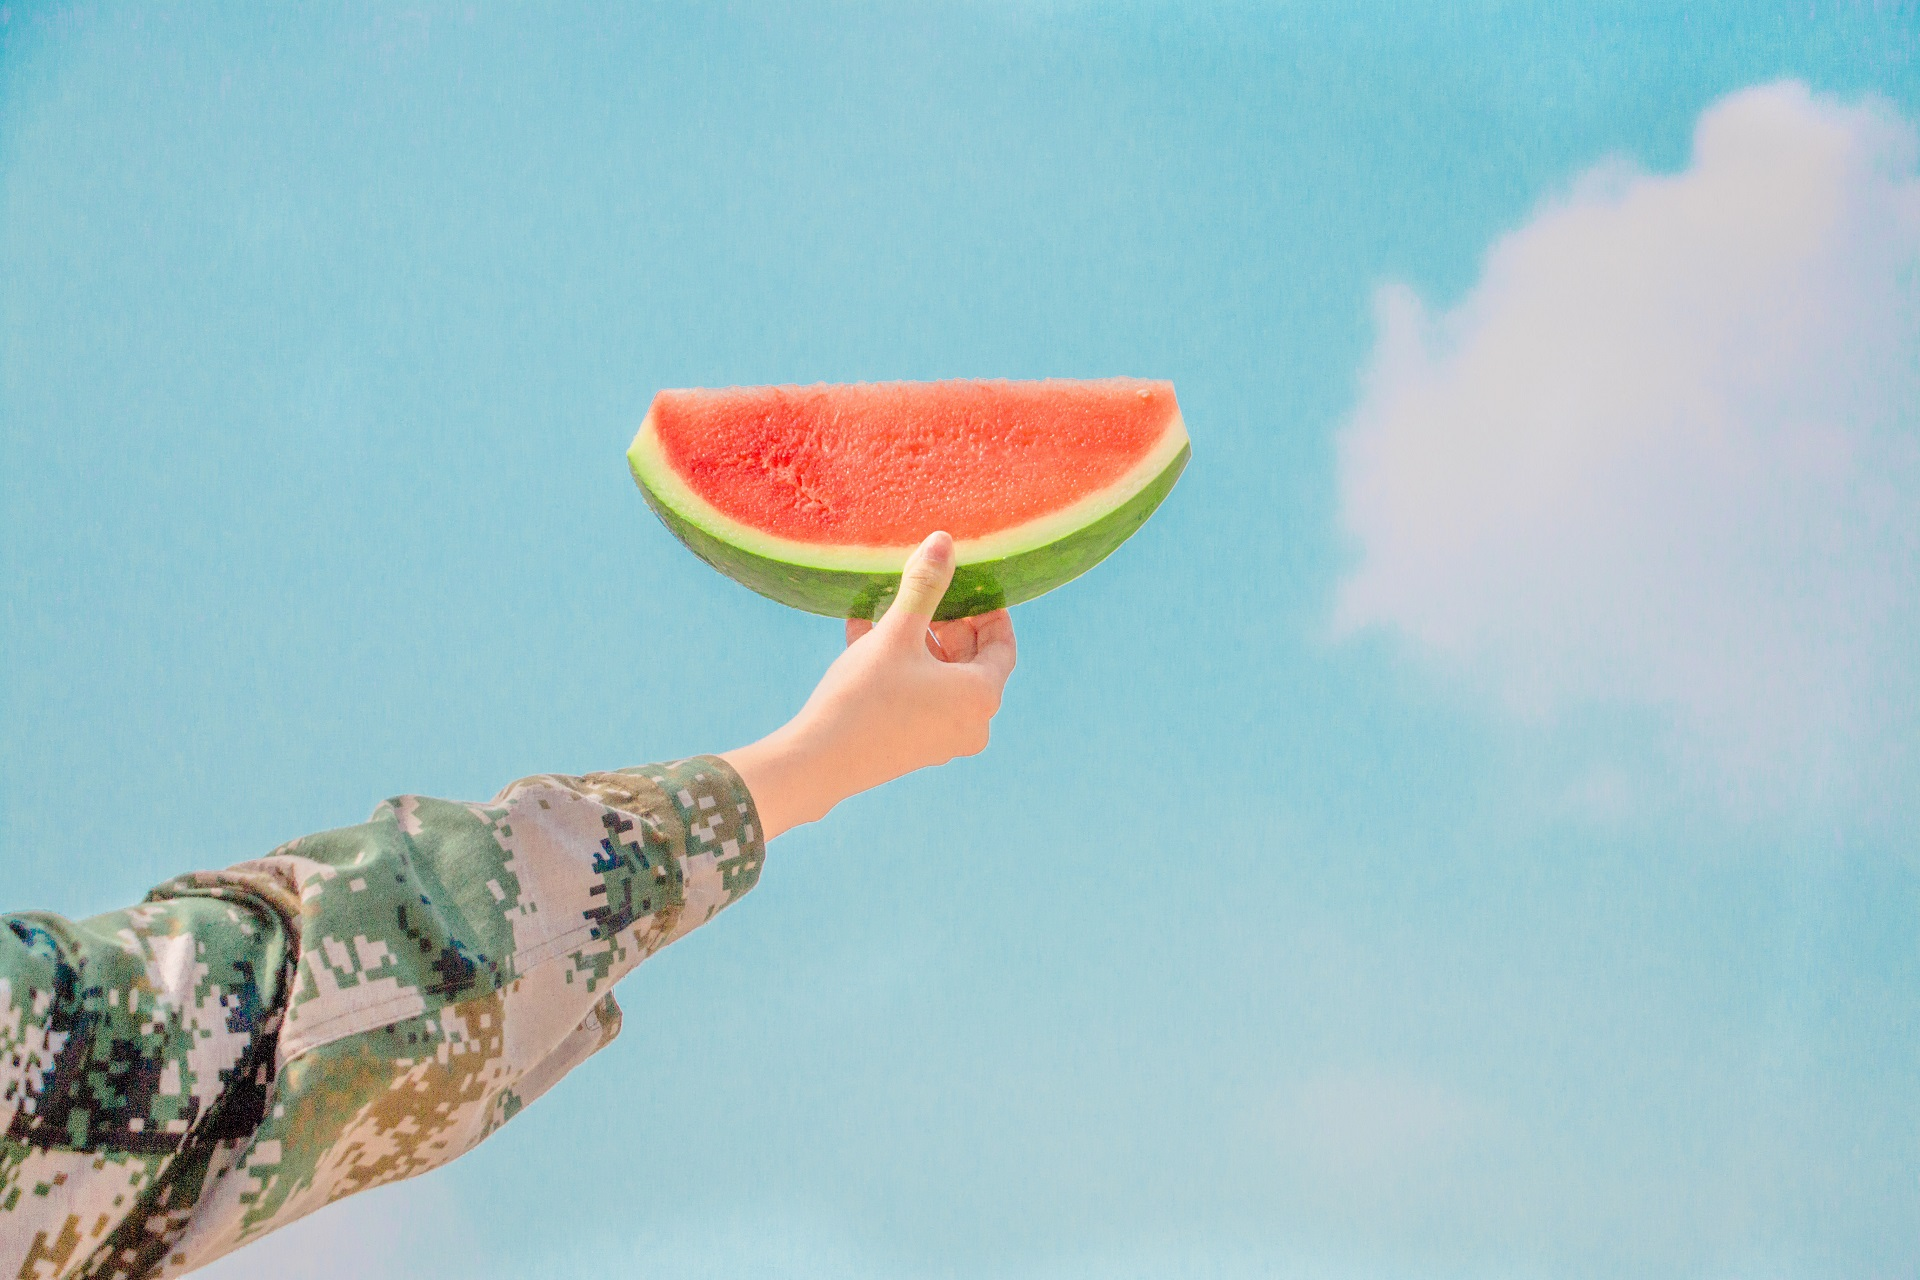
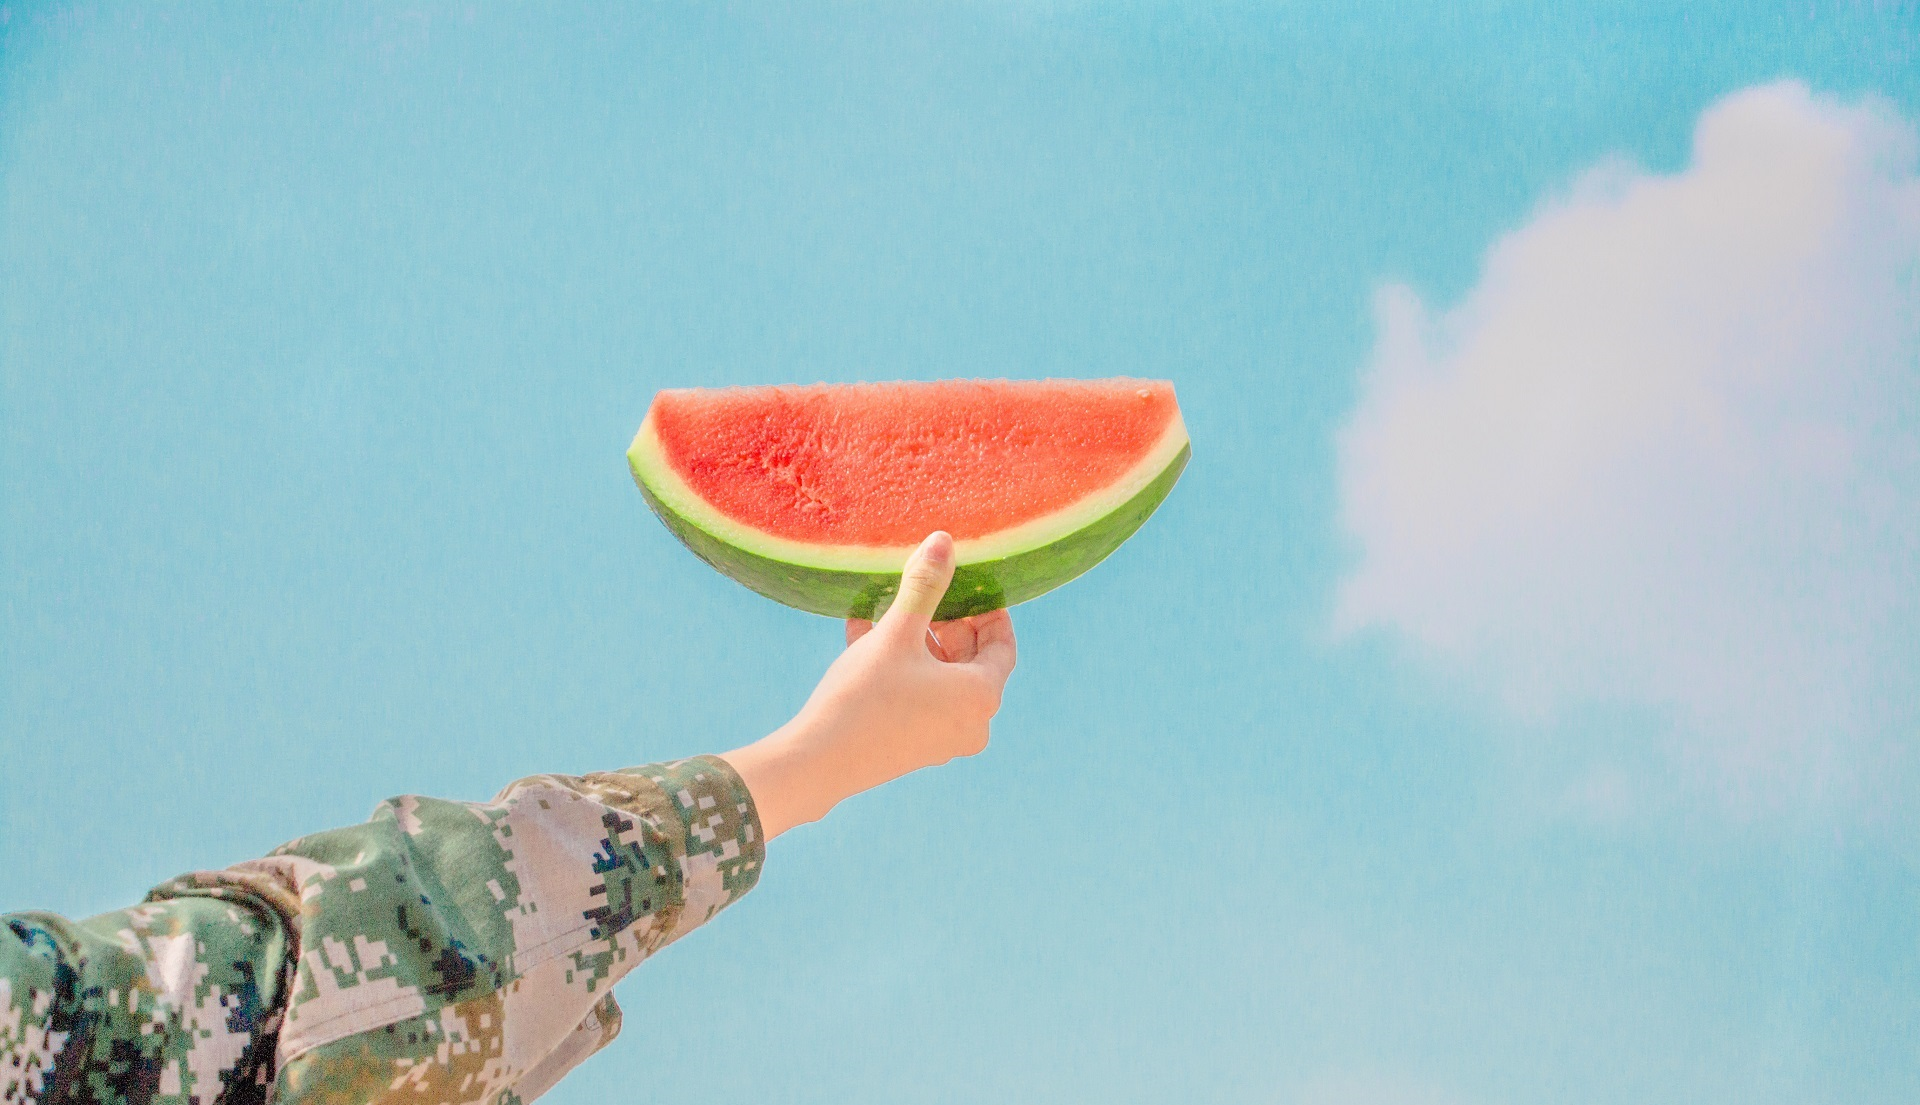
Site updated: 2022-07-02 21:56:32

diff --git a/index.html b/index.html
@@ -76,7 +76,7 @@
   <header>
     
 
-<div class="header-inner" style="height: 45vh;">
+<div class="header-inner" style="height: 60vh;">
   <nav id="navbar" class="navbar fixed-top  navbar-expand-lg navbar-dark scrolling-navbar">
   <div class="container">
     <a class="navbar-brand" href="/">
@@ -151,9 +151,9 @@
   
 
 <div id="banner" class="banner" false
-     style="background: url('/img/summer.jpg') no-repeat center center; background-size: cover;">
+     style="background: url('/img/leaf.jpg') no-repeat center center; background-size: cover;">
   <div class="full-bg-img">
-    <div class="mask flex-center" style="background-color: rgba(0, 0, 0, 0.3)">
+    <div class="mask flex-center" style="background-color: rgba(0, 0, 0, 0.2)">
       <div class="banner-text text-center fade-in-up">
         <div class="sub">
           

diff --git a/2016/01/01/样式草稿/index.html b/2016/01/01/样式草稿/index.html
@@ -28,7 +28,7 @@
 
 
 
-  <link  rel="stylesheet" href="https://lib.baomitu.com/github-markdown-css/4.0.0/github-markdown.min.css" />
+  <link  rel="stylesheet" href="https://lib.baomitu.com/github-markdown-css/5.1.0/github-markdown.css/github-markdown.min.css" />
 
   <link  rel="stylesheet" href="https://lib.baomitu.com/hint.css/2.7.0/hint.min.css" />
 
@@ -157,7 +157,7 @@
   
 
 <div id="banner" class="banner" false
-     style="background: url('/img/summer.jpg') no-repeat center center; background-size: cover;">
+     style="background: url('/img/leaf.jpg') no-repeat center center; background-size: cover;">
   <div class="full-bg-img">
     <div class="mask flex-center" style="background-color: rgba(0, 0, 0, 0.3)">
       <div class="banner-text text-center fade-in-up">

diff --git a/2016/12/17/Hello/index.html b/2016/12/17/Hello/index.html
@@ -28,7 +28,7 @@
 
 
 
-  <link  rel="stylesheet" href="https://lib.baomitu.com/github-markdown-css/4.0.0/github-markdown.min.css" />
+  <link  rel="stylesheet" href="https://lib.baomitu.com/github-markdown-css/5.1.0/github-markdown.css/github-markdown.min.css" />
 
   <link  rel="stylesheet" href="https://lib.baomitu.com/hint.css/2.7.0/hint.min.css" />
 
@@ -157,7 +157,7 @@
   
 
 <div id="banner" class="banner" false
-     style="background: url('/img/summer.jpg') no-repeat center center; background-size: cover;">
+     style="background: url('/img/leaf.jpg') no-repeat center center; background-size: cover;">
   <div class="full-bg-img">
     <div class="mask flex-center" style="background-color: rgba(0, 0, 0, 0.3)">
       <div class="banner-text text-center fade-in-up">

diff --git a/2017/01/19/生存与自由/index.html b/2017/01/19/生存与自由/index.html
@@ -28,7 +28,7 @@
 
 
 
-  <link  rel="stylesheet" href="https://lib.baomitu.com/github-markdown-css/4.0.0/github-markdown.min.css" />
+  <link  rel="stylesheet" href="https://lib.baomitu.com/github-markdown-css/5.1.0/github-markdown.css/github-markdown.min.css" />
 
   <link  rel="stylesheet" href="https://lib.baomitu.com/hint.css/2.7.0/hint.min.css" />
 
@@ -157,7 +157,7 @@
   
 
 <div id="banner" class="banner" false
-     style="background: url('/img/summer.jpg') no-repeat center center; background-size: cover;">
+     style="background: url('/img/leaf.jpg') no-repeat center center; background-size: cover;">
   <div class="full-bg-img">
     <div class="mask flex-center" style="background-color: rgba(0, 0, 0, 0.3)">
       <div class="banner-text text-center fade-in-up">

diff --git a/2017/03/07/暮狼之死/index.html b/2017/03/07/暮狼之死/index.html
@@ -28,7 +28,7 @@
 
 
 
-  <link  rel="stylesheet" href="https://lib.baomitu.com/github-markdown-css/4.0.0/github-markdown.min.css" />
+  <link  rel="stylesheet" href="https://lib.baomitu.com/github-markdown-css/5.1.0/github-markdown.css/github-markdown.min.css" />
 
   <link  rel="stylesheet" href="https://lib.baomitu.com/hint.css/2.7.0/hint.min.css" />
 
@@ -157,7 +157,7 @@
   
 
 <div id="banner" class="banner" false
-     style="background: url('/img/summer.jpg') no-repeat center center; background-size: cover;">
+     style="background: url('/img/leaf.jpg') no-repeat center center; background-size: cover;">
   <div class="full-bg-img">
     <div class="mask flex-center" style="background-color: rgba(0, 0, 0, 0.3)">
       <div class="banner-text text-center fade-in-up">

diff --git a/2017/03/13/读了点书/index.html b/2017/03/13/读了点书/index.html
@@ -28,7 +28,7 @@
 
 
 
-  <link  rel="stylesheet" href="https://lib.baomitu.com/github-markdown-css/4.0.0/github-markdown.min.css" />
+  <link  rel="stylesheet" href="https://lib.baomitu.com/github-markdown-css/5.1.0/github-markdown.css/github-markdown.min.css" />
 
   <link  rel="stylesheet" href="https://lib.baomitu.com/hint.css/2.7.0/hint.min.css" />
 
@@ -157,7 +157,7 @@
   
 
 <div id="banner" class="banner" false
-     style="background: url('/img/summer.jpg') no-repeat center center; background-size: cover;">
+     style="background: url('/img/leaf.jpg') no-repeat center center; background-size: cover;">
   <div class="full-bg-img">
     <div class="mask flex-center" style="background-color: rgba(0, 0, 0, 0.3)">
       <div class="banner-text text-center fade-in-up">

diff --git a/2022/06/19/静态博客，但是复健。/index.html b/2022/06/19/静态博客，但是复健。/index.html
@@ -28,7 +28,7 @@
 
 
 
-  <link  rel="stylesheet" href="https://lib.baomitu.com/github-markdown-css/4.0.0/github-markdown.min.css" />
+  <link  rel="stylesheet" href="https://lib.baomitu.com/github-markdown-css/5.1.0/github-markdown.css/github-markdown.min.css" />
 
   <link  rel="stylesheet" href="https://lib.baomitu.com/hint.css/2.7.0/hint.min.css" />
 
@@ -157,7 +157,7 @@
   
 
 <div id="banner" class="banner" false
-     style="background: url('/img/summer.jpg') no-repeat center center; background-size: cover;">
+     style="background: url('/img/leaf.jpg') no-repeat center center; background-size: cover;">
   <div class="full-bg-img">
     <div class="mask flex-center" style="background-color: rgba(0, 0, 0, 0.3)">
       <div class="banner-text text-center fade-in-up">

diff --git a/about/index.html b/about/index.html
@@ -28,7 +28,7 @@
 
 
 
-  <link  rel="stylesheet" href="https://lib.baomitu.com/github-markdown-css/4.0.0/github-markdown.min.css" />
+  <link  rel="stylesheet" href="https://lib.baomitu.com/github-markdown-css/5.1.0/github-markdown.css/github-markdown.min.css" />
 
   <link  rel="stylesheet" href="https://lib.baomitu.com/hint.css/2.7.0/hint.min.css" />
 
@@ -157,7 +157,7 @@
   
 
 <div id="banner" class="banner" false
-     style="background: url('/img/summer.jpg') no-repeat center center; background-size: cover;">
+     style="background: url('/img/leaf.jpg') no-repeat center center; background-size: cover;">
   <div class="full-bg-img">
     <div class="mask flex-center" style="background-color: rgba(0, 0, 0, 0.3)">
       <div class="banner-text text-center fade-in-up">

diff --git a/404.html b/404.html
@@ -151,7 +151,7 @@
   
 
 <div id="banner" class="banner" false
-     style="background: url('/img/summer.jpg') no-repeat center center; background-size: cover;">
+     style="background: url('/img/leaf.jpg') no-repeat center center; background-size: cover;">
   <div class="full-bg-img">
     <div class="mask flex-center" style="background-color: rgba(0, 0, 0, 0.3)">
       <div class="banner-text text-center fade-in-up">

diff --git a/archives/2016/01/index.html b/archives/2016/01/index.html
@@ -151,7 +151,7 @@
   
 
 <div id="banner" class="banner" false
-     style="background: url('/img/summer.jpg') no-repeat center center; background-size: cover;">
+     style="background: url('/img/leaf.jpg') no-repeat center center; background-size: cover;">
   <div class="full-bg-img">
     <div class="mask flex-center" style="background-color: rgba(0, 0, 0, 0.3)">
       <div class="banner-text text-center fade-in-up">

diff --git a/archives/2016/index.html b/archives/2016/index.html
@@ -151,7 +151,7 @@
   
 
 <div id="banner" class="banner" false
-     style="background: url('/img/summer.jpg') no-repeat center center; background-size: cover;">
+     style="background: url('/img/leaf.jpg') no-repeat center center; background-size: cover;">
   <div class="full-bg-img">
     <div class="mask flex-center" style="background-color: rgba(0, 0, 0, 0.3)">
       <div class="banner-text text-center fade-in-up">

diff --git a/archives/2017/01/index.html b/archives/2017/01/index.html
@@ -151,7 +151,7 @@
   
 
 <div id="banner" class="banner" false
-     style="background: url('/img/summer.jpg') no-repeat center center; background-size: cover;">
+     style="background: url('/img/leaf.jpg') no-repeat center center; background-size: cover;">
   <div class="full-bg-img">
     <div class="mask flex-center" style="background-color: rgba(0, 0, 0, 0.3)">
       <div class="banner-text text-center fade-in-up">
